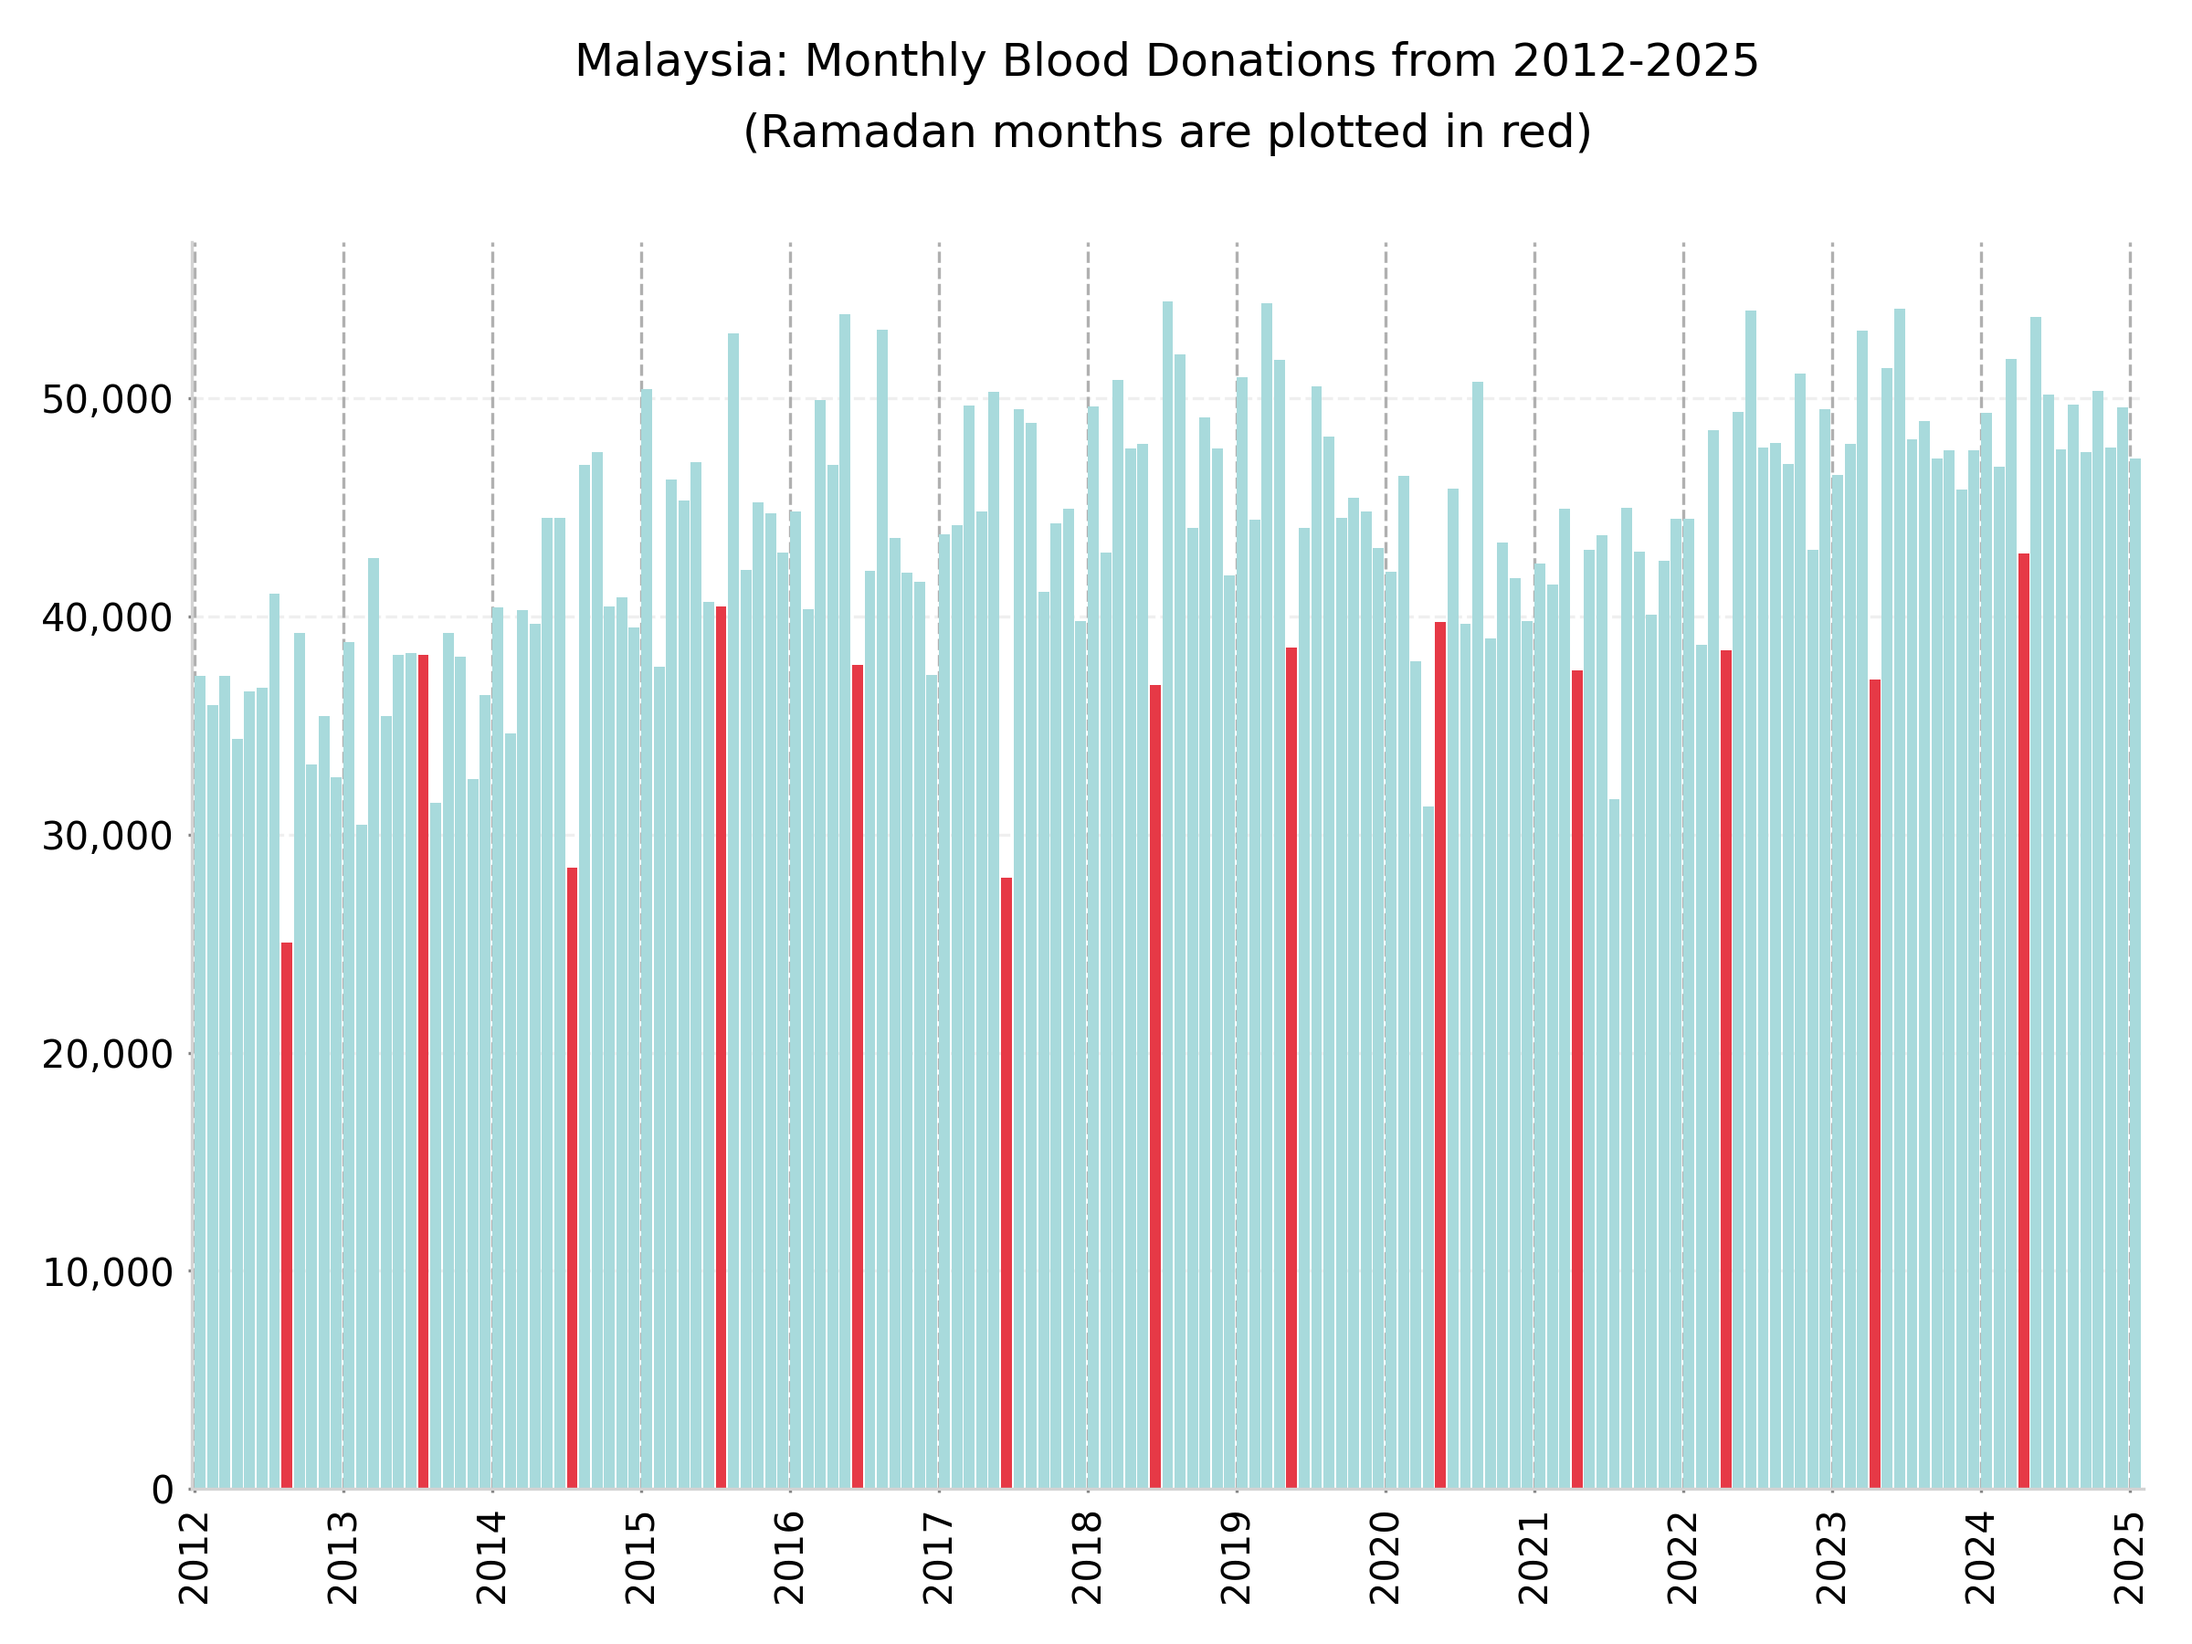
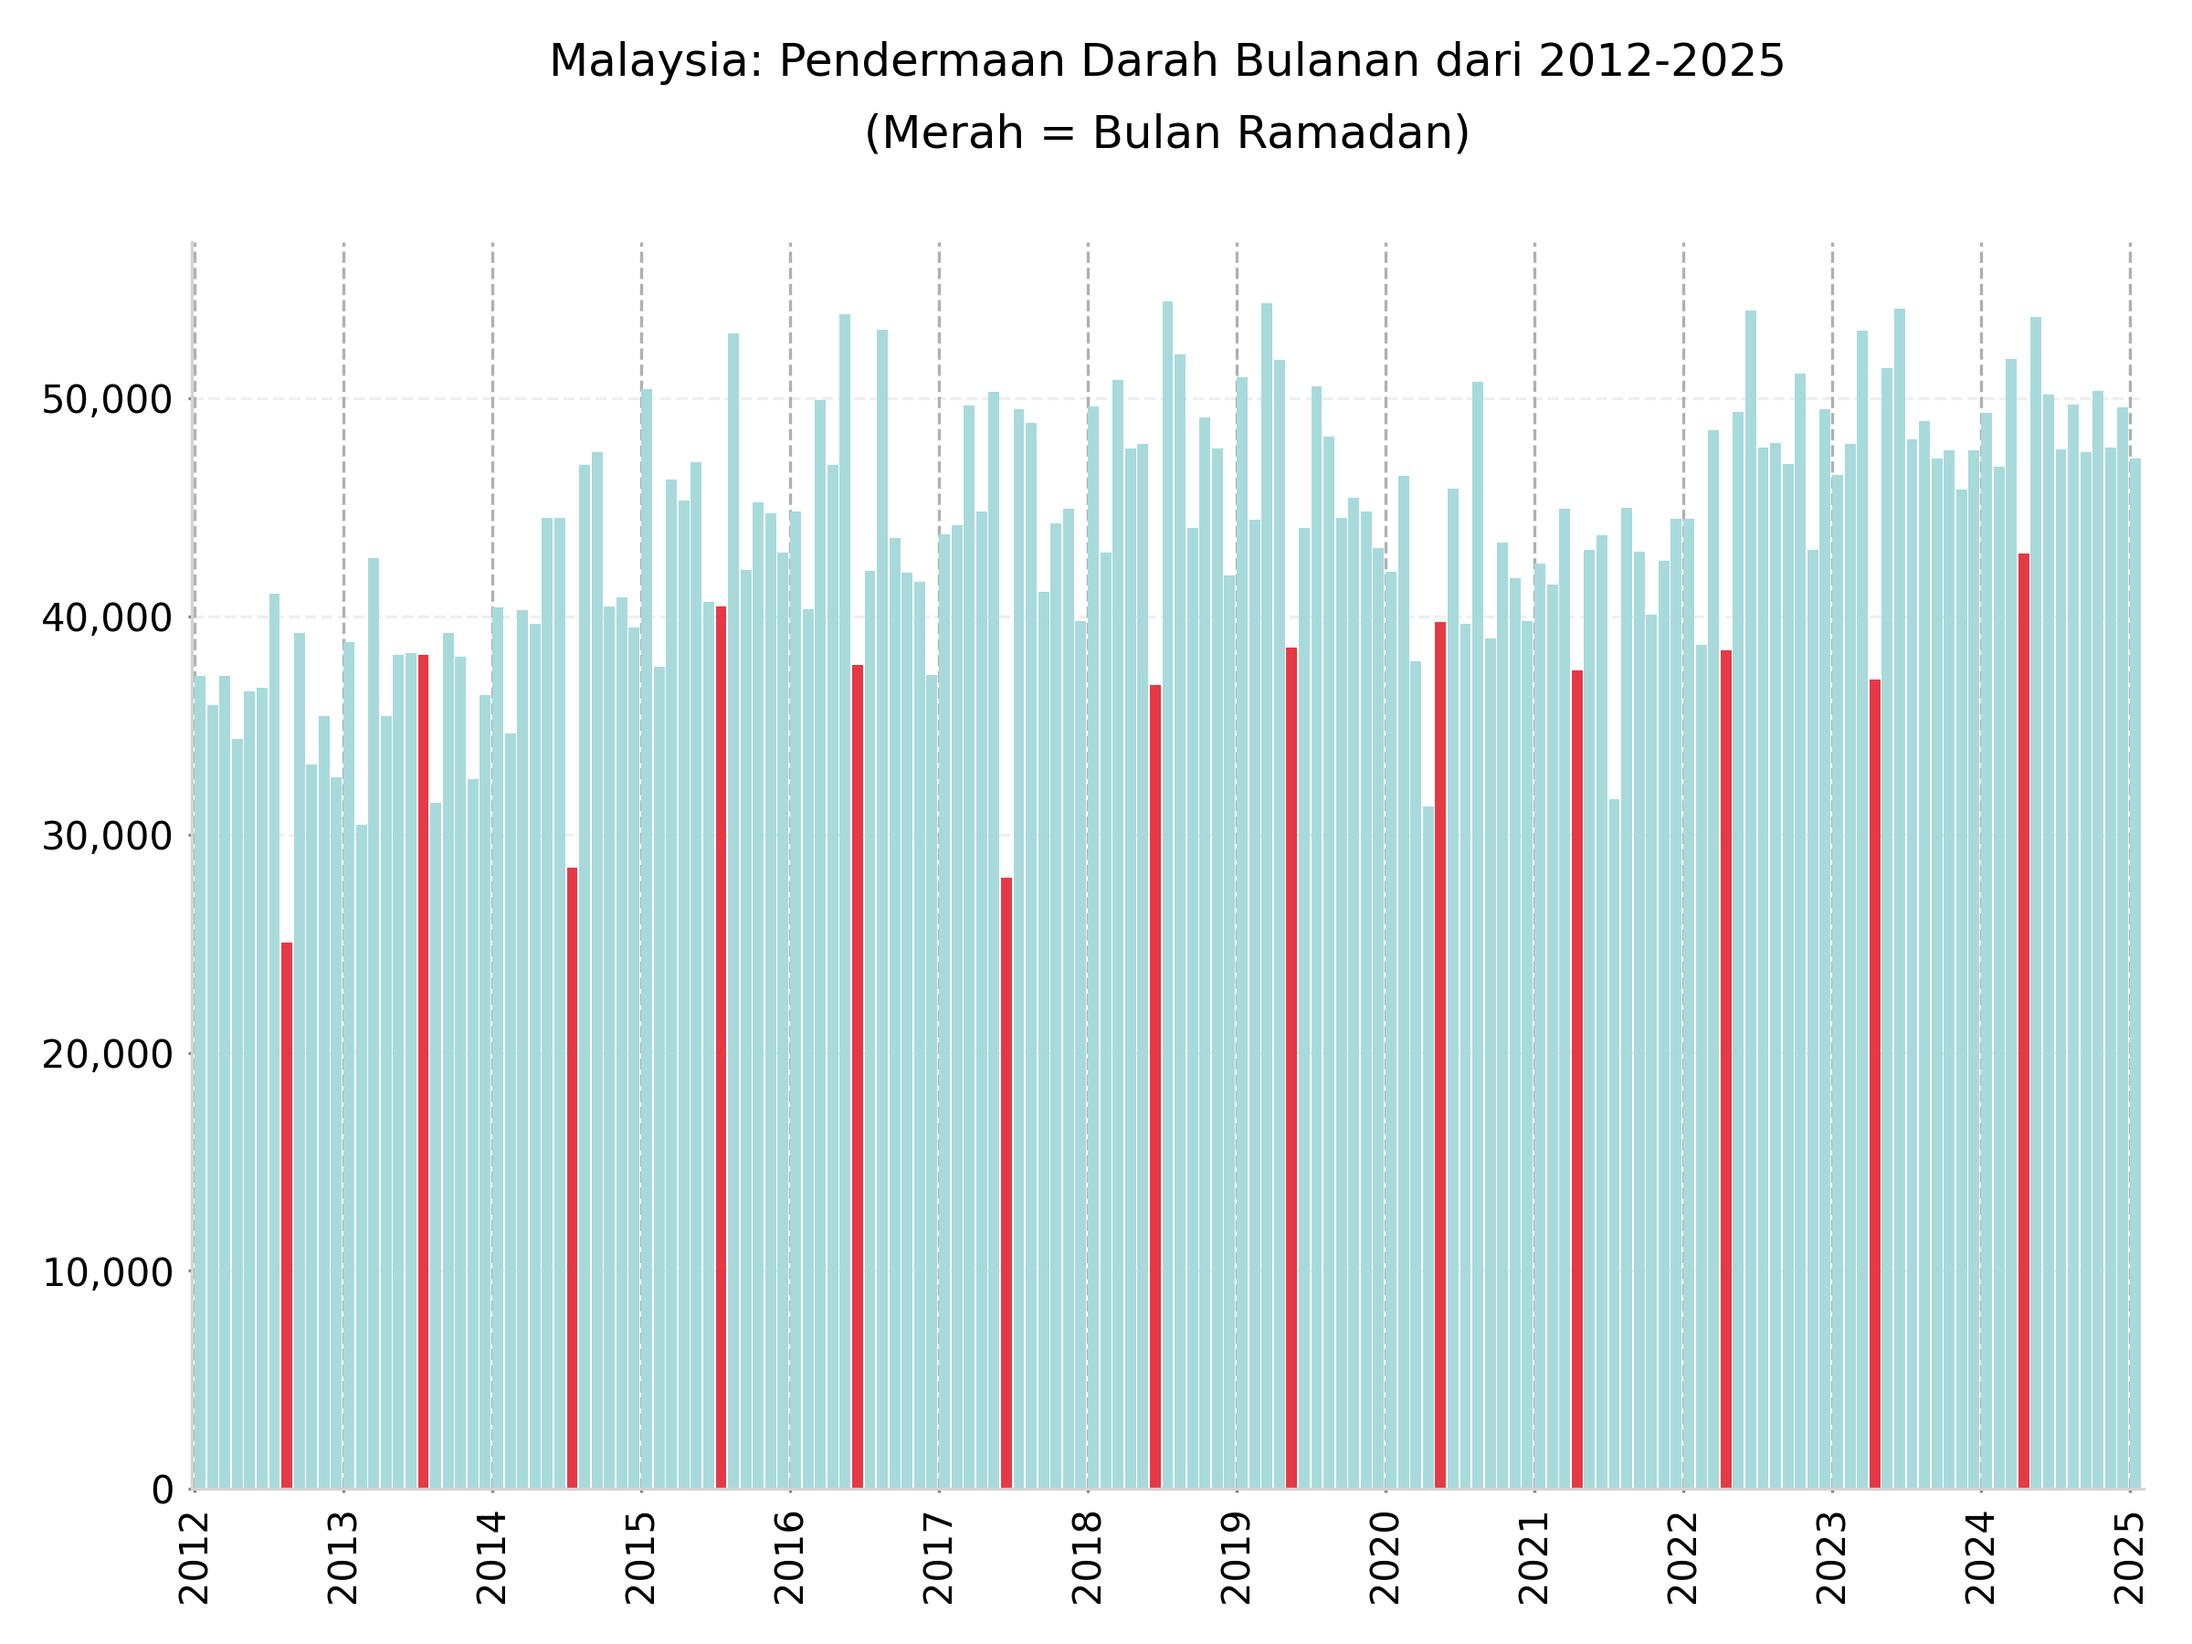
New: EPF dividens

Changed region(s): [[0.25, 0.0311, 0.8125, 0.0933]]

diff --git a/2025-03-01_epf/script.py b/2025-03-01_epf/script.py
@@ -1,0 +1,58 @@
+import pandas as pd
+import numpy as np
+import matplotlib.pyplot as plt
+import matplotlib.ticker as tkr
+from datetime import datetime
+
+
+def timeseries(df=None):
+    plt.rcParams.update({'font.size': 10,
+                        'font.family': 'sans-serif',
+                        'grid.linestyle': 'dashed'})
+    plt.rcParams["figure.figsize"] = [7.5,6]
+    plt.rcParams["figure.autolayout"] = True
+    fig, ax = plt.subplots()
+
+    VAR = list(df.columns)
+    COLOUR = ['black','red']
+
+    for v,c in zip(VAR,COLOUR):
+        df.plot(y=v,ax=ax,color=c,marker=None,markersize=4,lw=1,label=f'{v.title()}')
+
+    # plot-wide adjustments
+    ax.set_title(f"""EPF Dividend Rate: 1952 to 2024\nLatest (2024): 6.30% for both Types\n""",linespacing=1.8)
+    for b in ['top','right']: ax.spines[b].set_visible(False)
+    for b in ['left','bottom']: ax.spines[b].set_color('#cccccc')
+    ax.set_axisbelow(True)
+    ax.legend(loc='upper center', bbox_to_anchor=(0.5, 1.04), ncol=2)
+
+    # y-axis adjustments
+    ax.set_ylabel('',linespacing=0.5)
+    ax.yaxis.grid(True,alpha=0.25)
+    ax.set_ylim(2,9)
+    ax.yaxis.set_ticks(np.arange(2, 9, 0.5))
+    ax.get_yaxis().set_major_formatter(tkr.FuncFormatter(lambda x, p: format(x, ',.1f')))
+
+    # x-axis adjustments
+    ax.set_xlabel('')
+    ax.xaxis.grid(True,alpha=0.25)
+    ax.set_xlim(1950,2026)
+    ax.xaxis.set_ticks(np.arange(1950, 2026, 5))
+
+    # ALT-text copied directly to clipboard
+    import pyperclip
+    ALT = ''
+    for i in range(len(df)):
+        ALT += f"\n{df.index[i]}: " + ", ".join(f"{df[v].iloc[i]:.2f}" if pd.notna(df[v].iloc[i]) else "" for v in VAR)
+    pyperclip.copy(ALT)
+
+    for ext in ['png','webp']: plt.savefig(f'epf_dividend.{ext}',dpi=400)
+
+
+if __name__ == '__main__':
+    print(f'\nStart: {datetime.now():%Y-%m-%d %H:%M:%S}\n')
+    df = pd.read_csv('dividend.csv').sort_values(by='year').set_index('year')
+    df.columns = ['Conventional','Shariah']
+    print('Generating timeseries chart')
+    timeseries(df)
+    print(f'\nEnd: {datetime.now():%Y-%m-%d %H:%M:%S}\n')

diff --git a/2025-02-25_blood/script.py b/2025-02-25_blood/script.py
@@ -21,7 +21,7 @@ def timeseries_bar(tf = None):
     tf[tf.date != tf.date.max()].plot(kind='bar',x='date',y='donations',ax=ax,color=list(tf.color)[:-1],edgecolor='none', width=0.88,lw=0.3)
 
     # plot-wide adjustments
-    ax.set_title(f"""Malaysia: Monthly Blood Donations from 2012-2025\n(Ramadan months are plotted in red)\n""",linespacing=1.8)
+    ax.set_title(f"""Malaysia: Pendermaan Darah Bulanan dari 2012-2025\n(Merah = Bulan Ramadan)\n""",linespacing=1.8)
     for b in ['top','right']: ax.spines[b].set_visible(False)
     for b in ['left','bottom']: ax.spines[b].set_color('lightgrey')
     ax.set_axisbelow(True)
